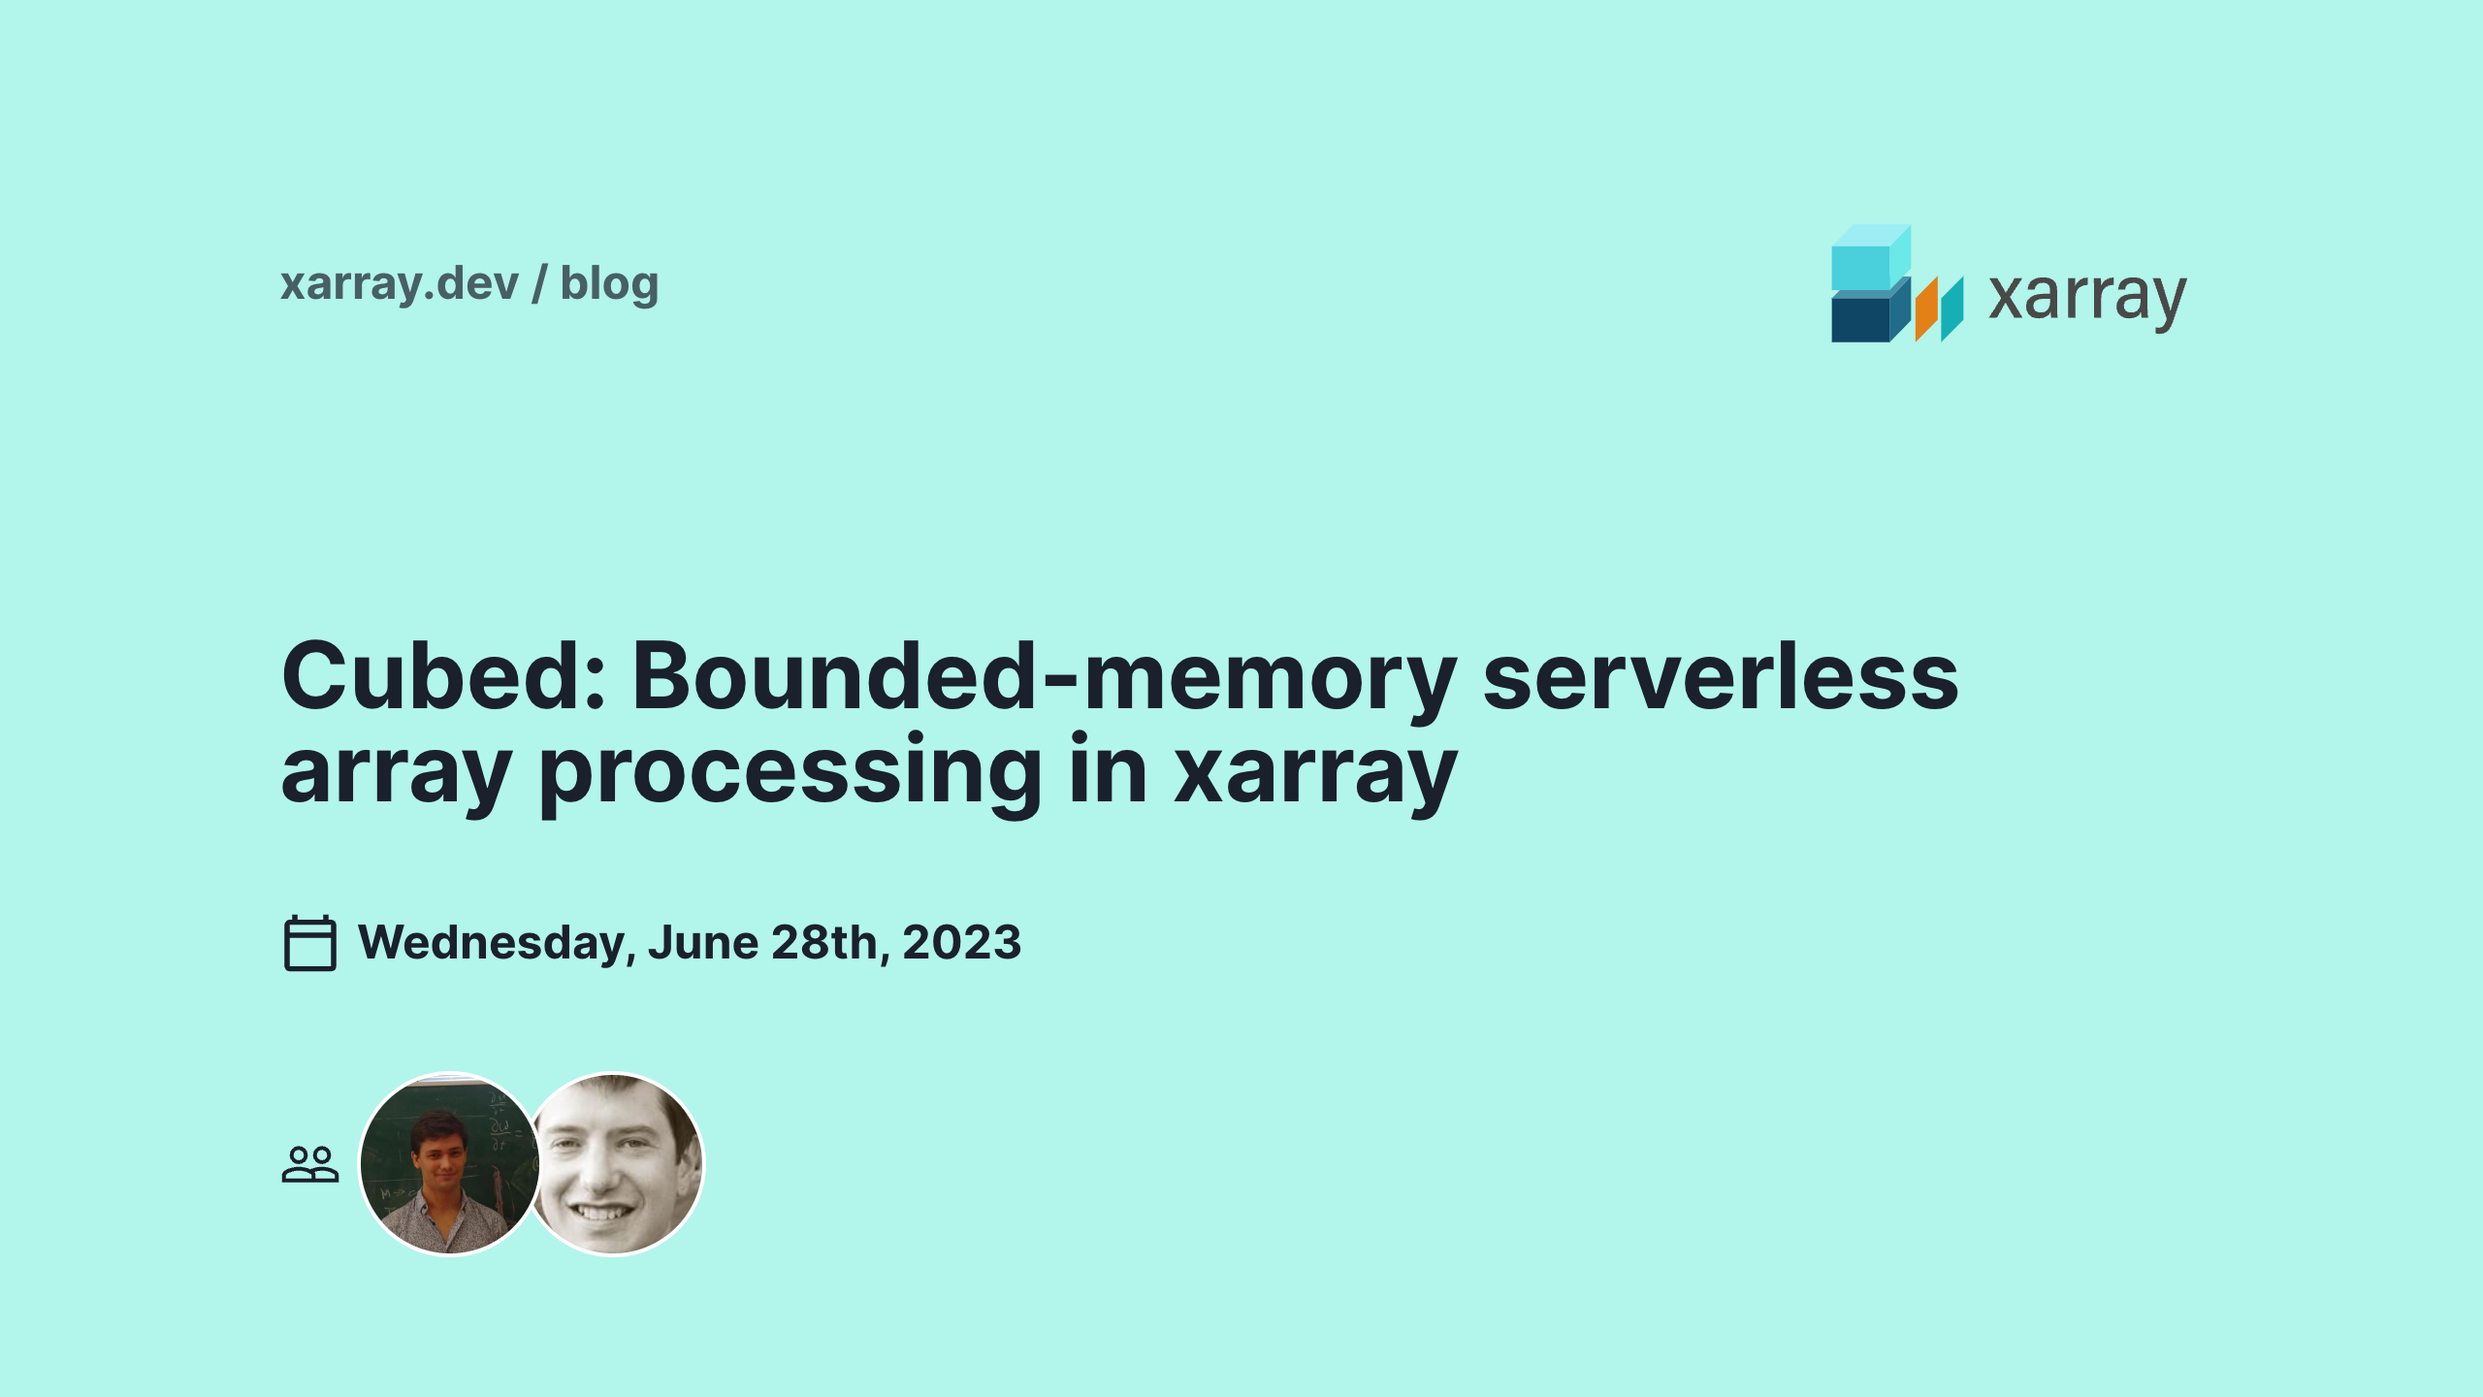
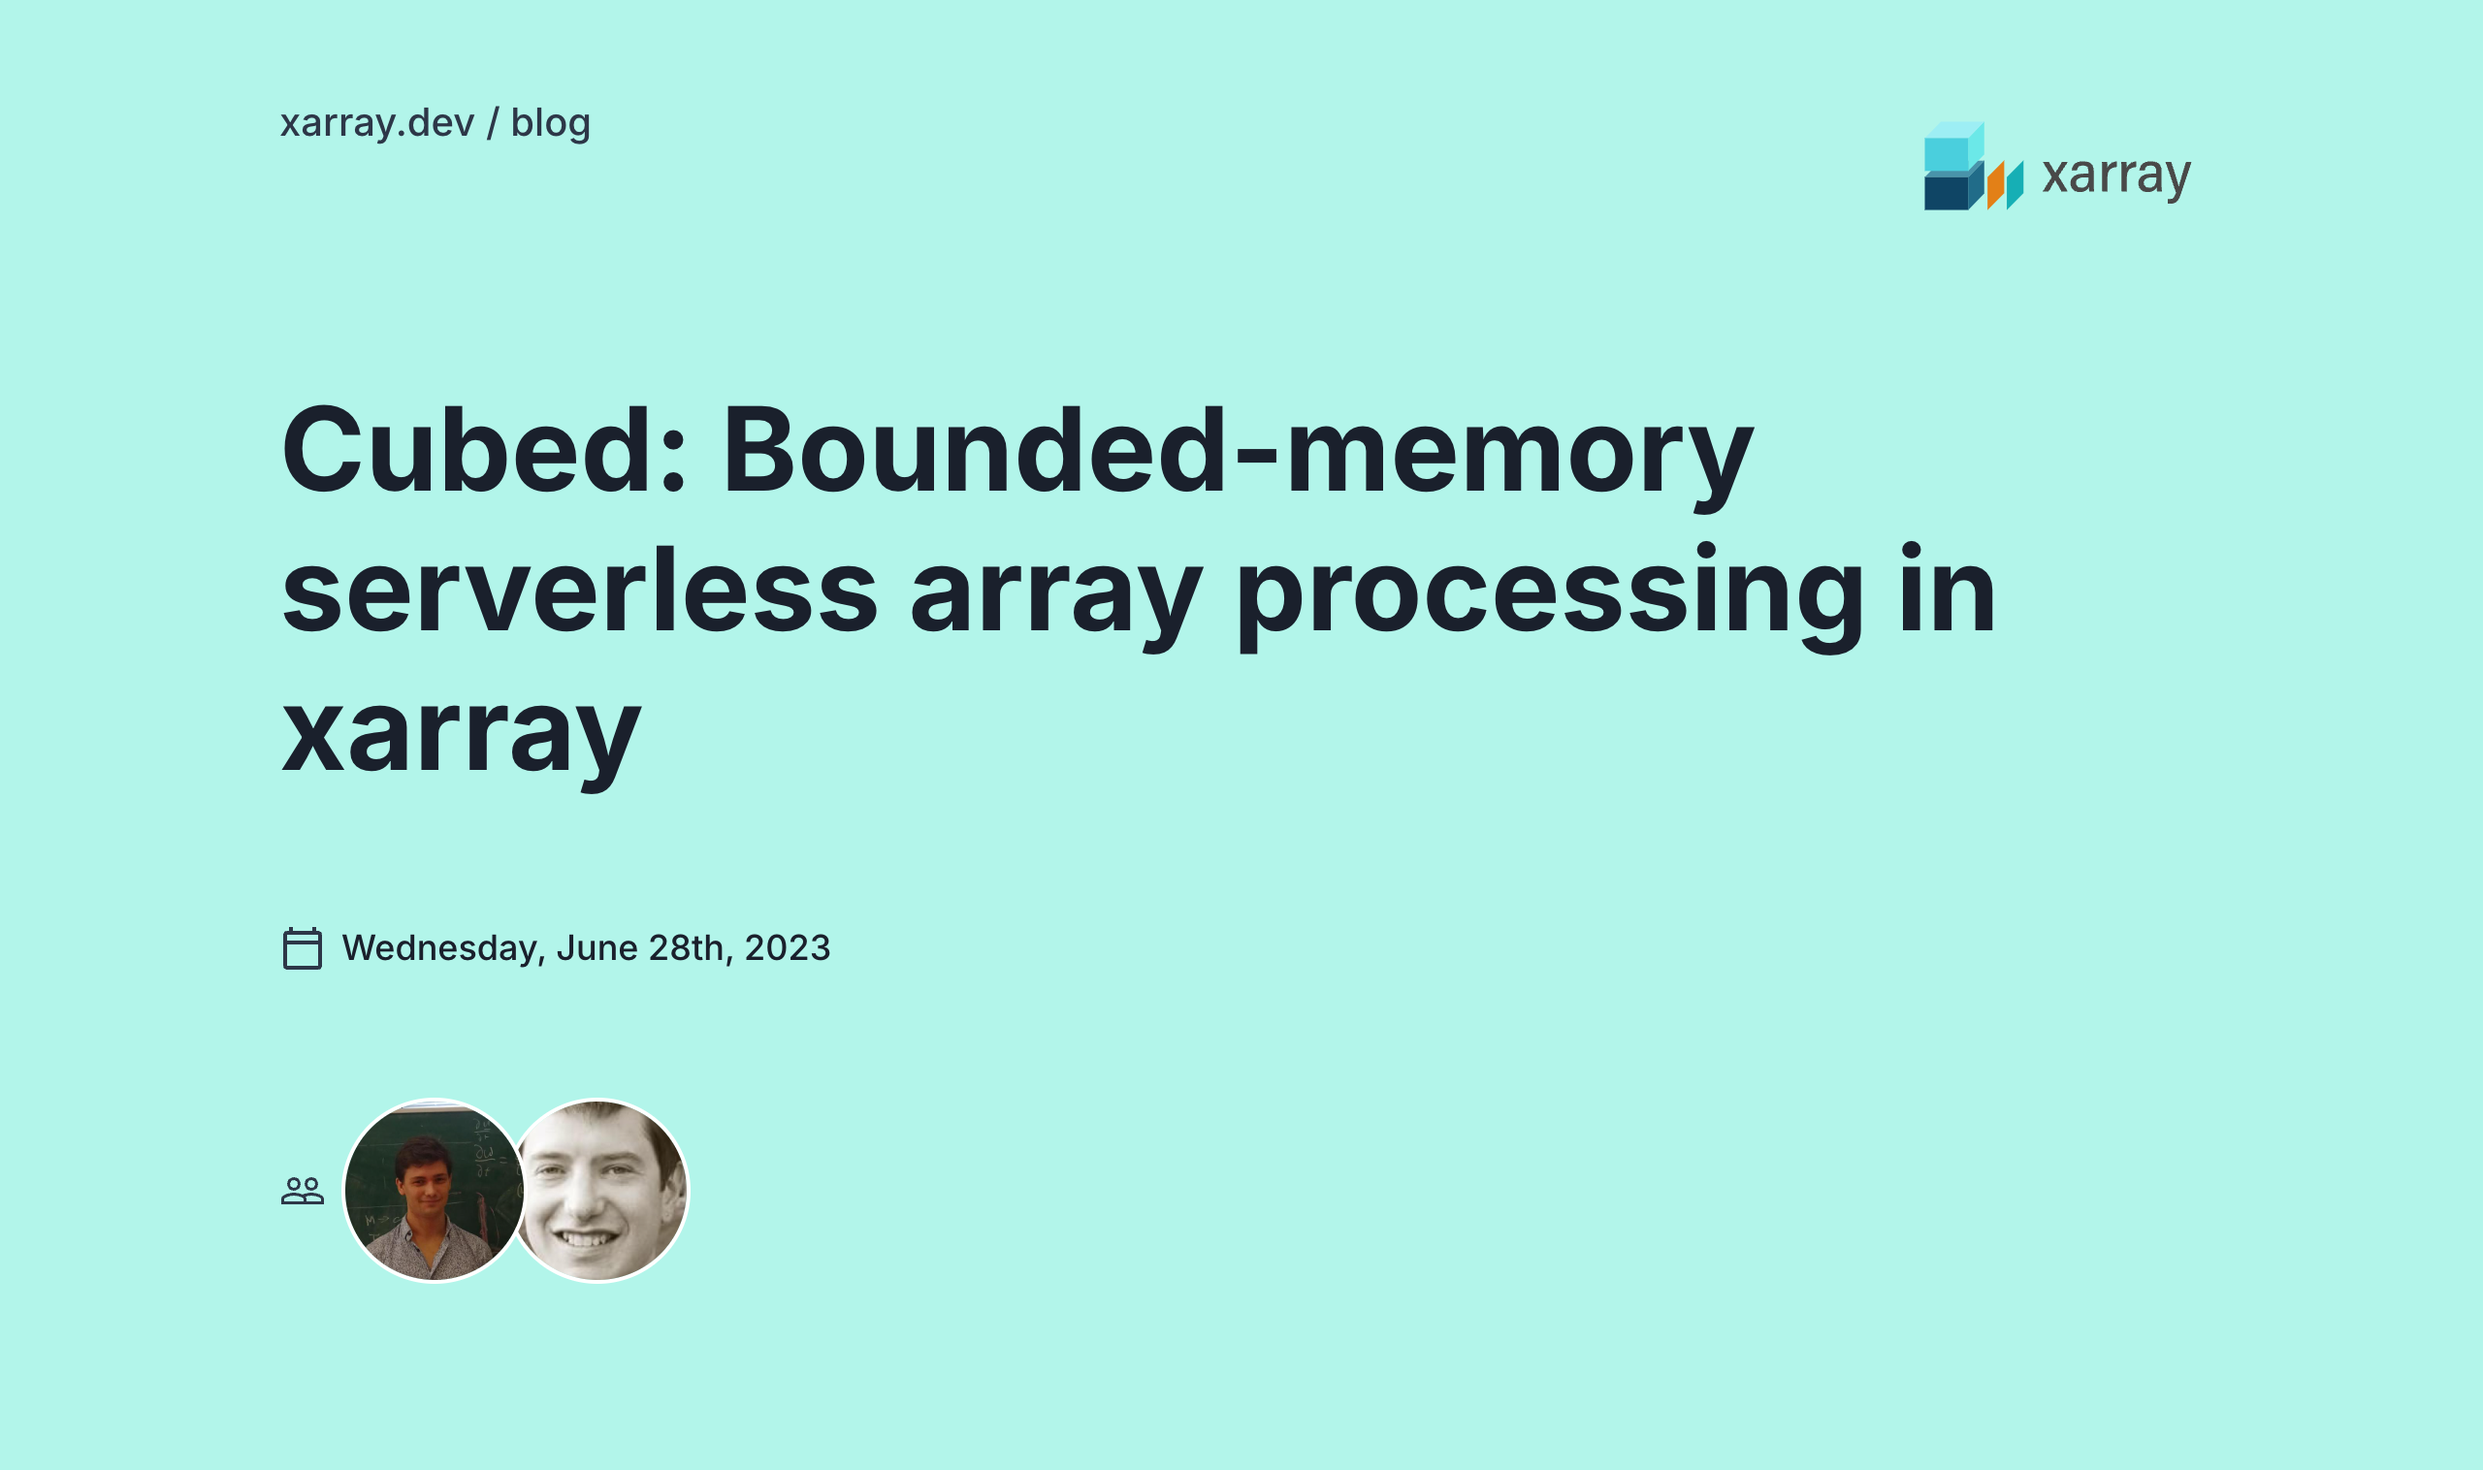
Update opengraph thumbnails (#709)

diff --git a/src/pages/cards/[id].js b/src/pages/cards/[id].js
@@ -1,6 +1,4 @@
 import { Image } from '@/components/mdx'
-import { MdOutlineCalendarToday, MdPeopleOutline } from 'react-icons/md'
-
 import { formatDate } from '@/lib/date-formatting'
 import { getAllPostsIds, getPostData } from '@/lib/posts'
 import {
@@ -11,71 +9,73 @@ import {
   Flex,
   Heading,
   Icon,
-  Stack,
   Text,
+  VStack,
 } from '@chakra-ui/react'
 import fs from 'fs'
 import matter from 'gray-matter'
 import path from 'path'
+import { MdOutlineCalendarToday, MdPeopleOutline } from 'react-icons/md'
 
 const Card = ({ frontmatter, id }) => {
-  const boxBackground = 'teal.100'
   const date = new Date(frontmatter.date)
 
   return (
-    <Box
-      sx={{ bg: boxBackground, color: 'invert' }}
-      h={'100vh'}
-      w={'100vw'}
-      backgroundImage={'/background.svg'}
-    >
-      <Container id='post' maxW={'container.lg'} centerContent>
-        <Flex direction='column' fontSize={'2xl'}>
-          <Stack direction={'row'} spacing={8} justify='space-between'>
-            <Stack>
-              <Text my={32} fontWeight={'bold'} opacity={0.7}>
-                xarray.dev / blog
-              </Text>
-            </Stack>
+    <Box bg='teal.100' minH='100vh' w='100vw'>
+      <Container maxW='container.lg' h='100%' py={12}>
+        <Flex direction='column' h='100%' justify='center'>
+          <Flex justifyContent='space-between' alignItems='flex-start' mb={6}>
+            <Text fontSize='xl' color='gray.700' fontWeight='medium'>
+              xarray.dev / blog
+            </Text>
+            <Image
+              w='150px'
+              h='auto'
+              objectFit='contain'
+              src='/Xarray-assets/RGB/Xarray_Logo_RGB_Final.svg'
+              alt='xarray logo'
+            />
+          </Flex>
+
+          <VStack align='stretch' spacing={16} my={12}>
+            <Heading as='h1' size='3xl' fontWeight='bold' lineHeight='1.2'>
+              {frontmatter.title}
+            </Heading>
+
             <Flex
-              direction={'row'}
-              alignItems={'center'}
-              justify={'right'}
-              align={'right'}
+              direction={['column', 'row']}
+              justify='space-between'
+              align={['flex-start', 'center']}
+              wrap='wrap'
+              gap={4}
             >
-              <Image
-                justify={'right'}
-                align={'right'}
-                w={'200px'}
-                src={'/Xarray-assets/RGB/Xarray_Logo_RGB_Final.svg'}
-                alt={'xarray logo'}
-              />
+              <Flex align='center'>
+                <Icon
+                  as={MdOutlineCalendarToday}
+                  w={6}
+                  h={6}
+                  mr={2}
+                  color='gray.700'
+                />
+                <Text fontSize='lg' fontWeight='medium'>
+                  {formatDate(date)}
+                </Text>
+              </Flex>
             </Flex>
-          </Stack>
-          <Heading as={'h1'} size={'2xl'} my={8}>
-            {frontmatter.title}
-          </Heading>
 
-          <Stack direction={'row'} my={4} align={'center'}>
-            <Icon as={MdOutlineCalendarToday} w='8' h='8' />
-            <Text fontWeight={'bold'}>{formatDate(date)}</Text>
-          </Stack>
-
-          <Stack direction={'row'} my={8} align={'center'}>
-            <Icon as={MdPeopleOutline} w='8' h='8' />
-
-            <AvatarGroup size={'xl'}>
-              {frontmatter.authors.map((author) => {
-                return (
+            <Flex align='center'>
+              <Icon as={MdPeopleOutline} w={6} h={6} mr={2} color='gray.700' />
+              <AvatarGroup size='xl' max={5} spacing='-0.75rem'>
+                {frontmatter.authors.map((author) => (
                   <Avatar
                     key={author.name}
-                    src={`https://github.com/${author.github}.png`}
                     name={author.name}
+                    src={`https://github.com/${author.github}.png`}
                   />
-                )
-              })}
-            </AvatarGroup>
-          </Stack>
+                ))}
+              </AvatarGroup>
+            </Flex>
+          </VStack>
         </Flex>
       </Container>
     </Box>

diff --git a/src/components/layout.js b/src/components/layout.js
@@ -13,13 +13,22 @@ export const Layout = ({
   url = 'https://xarray.dev',
   enableBanner = false,
 }) => {
-  const bannerTitle = 'Xarray’s 2024 User Survey is live now.'
+  const bannerTitle = "Xarray's 2024 User Survey is live now."
   const bannerDescription = ''
   const bannerChildren = (
     <Link href='https://forms.gle/KEq7WviCdz9xTaJX6'>
       Please take ~5 minutes to fill it out and help us improve Xarray.
     </Link>
   )
+
+  // Determine the base URL based on the environment
+  const baseUrl = process.env.NEXT_PUBLIC_VERCEL_URL
+    ? `https://${process.env.NEXT_PUBLIC_VERCEL_URL}`
+    : 'http://localhost:3000'
+
+  // Construct the full card URL
+  const fullCardUrl = card.startsWith('http') ? card : `${baseUrl}${card}`
+
   return (
     <>
       <Head>
@@ -27,11 +36,11 @@ export const Layout = ({
         <meta content='width=device-width, initial-scale=1' name='viewport' />
         <meta property='og:title' content={title} />
         <meta property='og:description' content={description} />
-        <meta property='og:image' content={card} />
+        <meta property='og:image' content={fullCardUrl} />
         <meta property='og:url' content={url} />
         <meta name='twitter:title' content={title} />
         <meta name='twitter:description' content={description} />
-        <meta name='twitter:image' content={card} />
+        <meta name='twitter:image' content={fullCardUrl} />
         <meta name='twitter:card' content='summary_large_image' />
         <meta name='twitter:site' content='@xarray_dev' />
         <link

diff --git a/src/pages/blog/[id].js b/src/pages/blog/[id].js
@@ -29,18 +29,15 @@ import { distanceToNow, formatDate } from '@/lib/date-formatting'
 import { MDXElements } from '@/lib/mdx-elements'
 import { getAllPostsIds, getPostData } from '@/lib/posts'
 
-const CARDS_BASE_URL = 'https://xarray.dev/cards'
-
 export default function Post({ source, frontmatter, postId }) {
-  const card = `${CARDS_BASE_URL}/${postId}.png`
   const date = new Date(frontmatter.date)
 
   return (
     <Layout
       title={`${frontmatter.title}`}
-      card={card}
+      card={`/cards/${postId}.png`}
       description={frontmatter.summary}
-      url={`https://xarray.dev/blog/${postId}`}
+      url={`/blog/${postId}`}
     >
       <Box as={'section'}>
         <Container maxW='container.lg' py={10}>

diff --git a/src/pages/team.js b/src/pages/team.js
@@ -6,7 +6,13 @@ import { Box, Container, Heading, SimpleGrid, Text } from '@chakra-ui/react'
 
 const Team = () => {
   return (
-    <Layout title={'Xarray Contributors'}>
+    <Layout
+      title={'Xarray Contributors'}
+      card={
+        'https://raw.githubusercontent.com/xarray-contrib/xarray.dev/main/public/Xarray-assets/Icon/Xarray_Icon_Final.png'
+      }
+      url={`/team`}
+    >
       <Box as='section' py={20}>
         <Container maxW='container.lg'>
           <Heading as='h1' size='2xl' textAlign={'center'}>

diff --git a/src/pages/dashboard.js b/src/pages/dashboard.js
@@ -5,7 +5,7 @@ const DashboardPage = () => {
   return (
     <Layout
       title={'Xarray project statistics'}
-      url={'https://xarray.dev/dashboard'}
+      url={`/dashboard`}
       description={'Xarray project statistics'}
       card={
         'https://raw.githubusercontent.com/xarray-contrib/xarray.dev/main/public/Xarray-assets/Icon/Xarray_Icon_Final.png'

diff --git a/src/pages/index.js b/src/pages/index.js
@@ -12,6 +12,7 @@ import { Layout } from '@/components/layout'
 export default function IndexPage() {
   return (
     <Layout
+      url={`/`}
       title={'Xarray: N-D labeled arrays and datasets in Python'}
       card={
         'https://raw.githubusercontent.com/xarray-contrib/xarray.dev/main/public/Xarray-assets/Icon/Xarray_Icon_Final.png'

diff --git a/src/pages/blog/index.js b/src/pages/blog/index.js
@@ -72,7 +72,7 @@ export default function Blog({ allPostsData }) {
   return (
     <Layout
       title={'Blog | Xarray'}
-      url={'https://xarray.dev/blog'}
+      url={`/blog`}
       card={
         'https://raw.githubusercontent.com/xarray-contrib/xarray.dev/main/public/Xarray-assets/Icon/Xarray_Icon_Final.png'
       }
